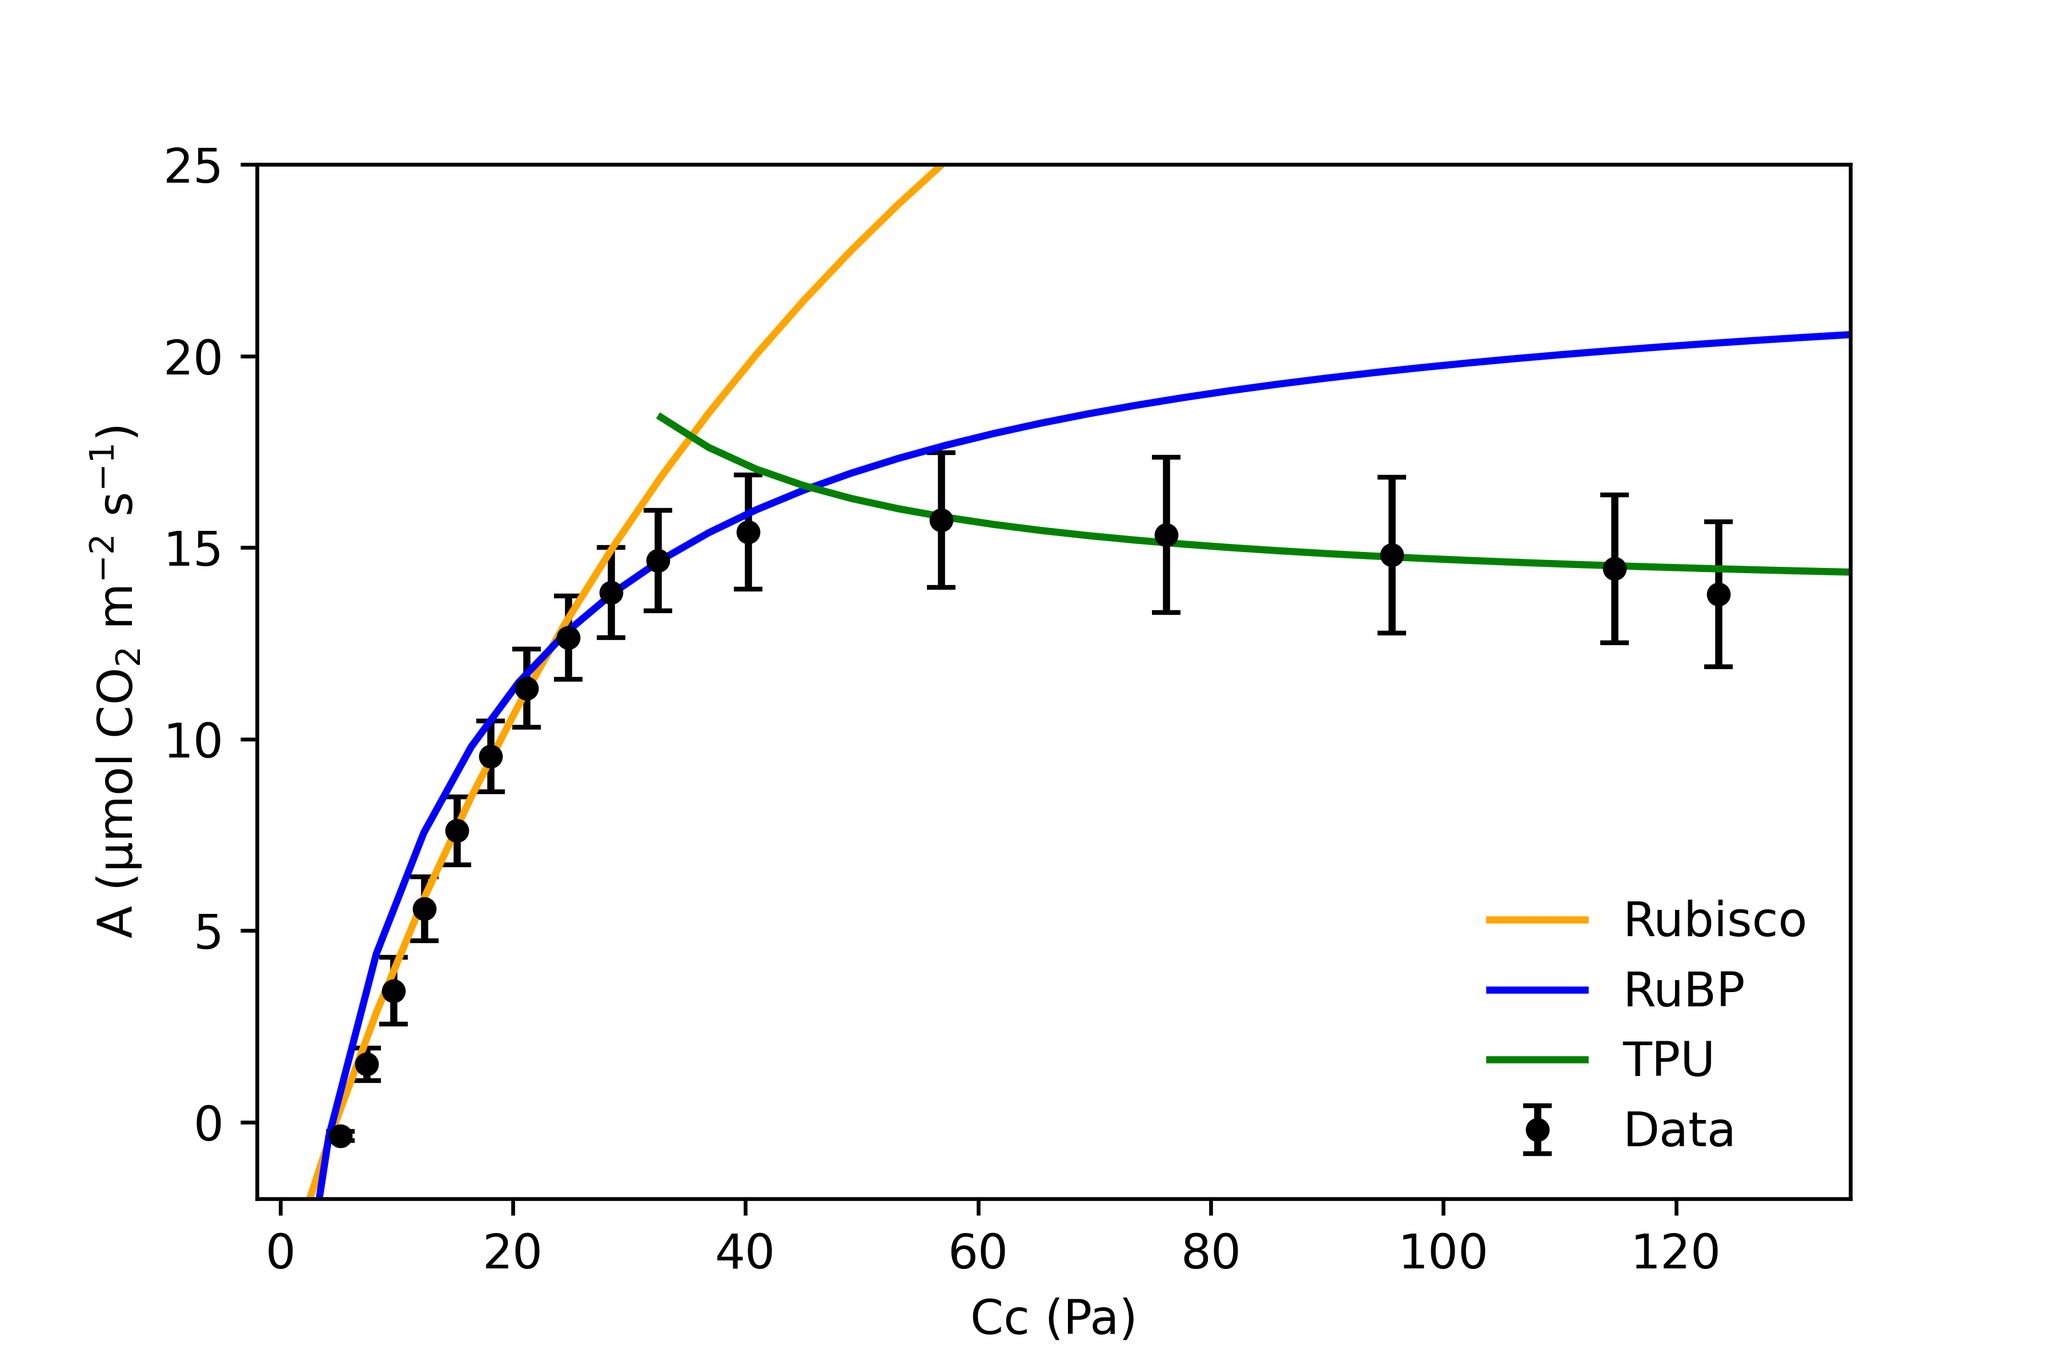
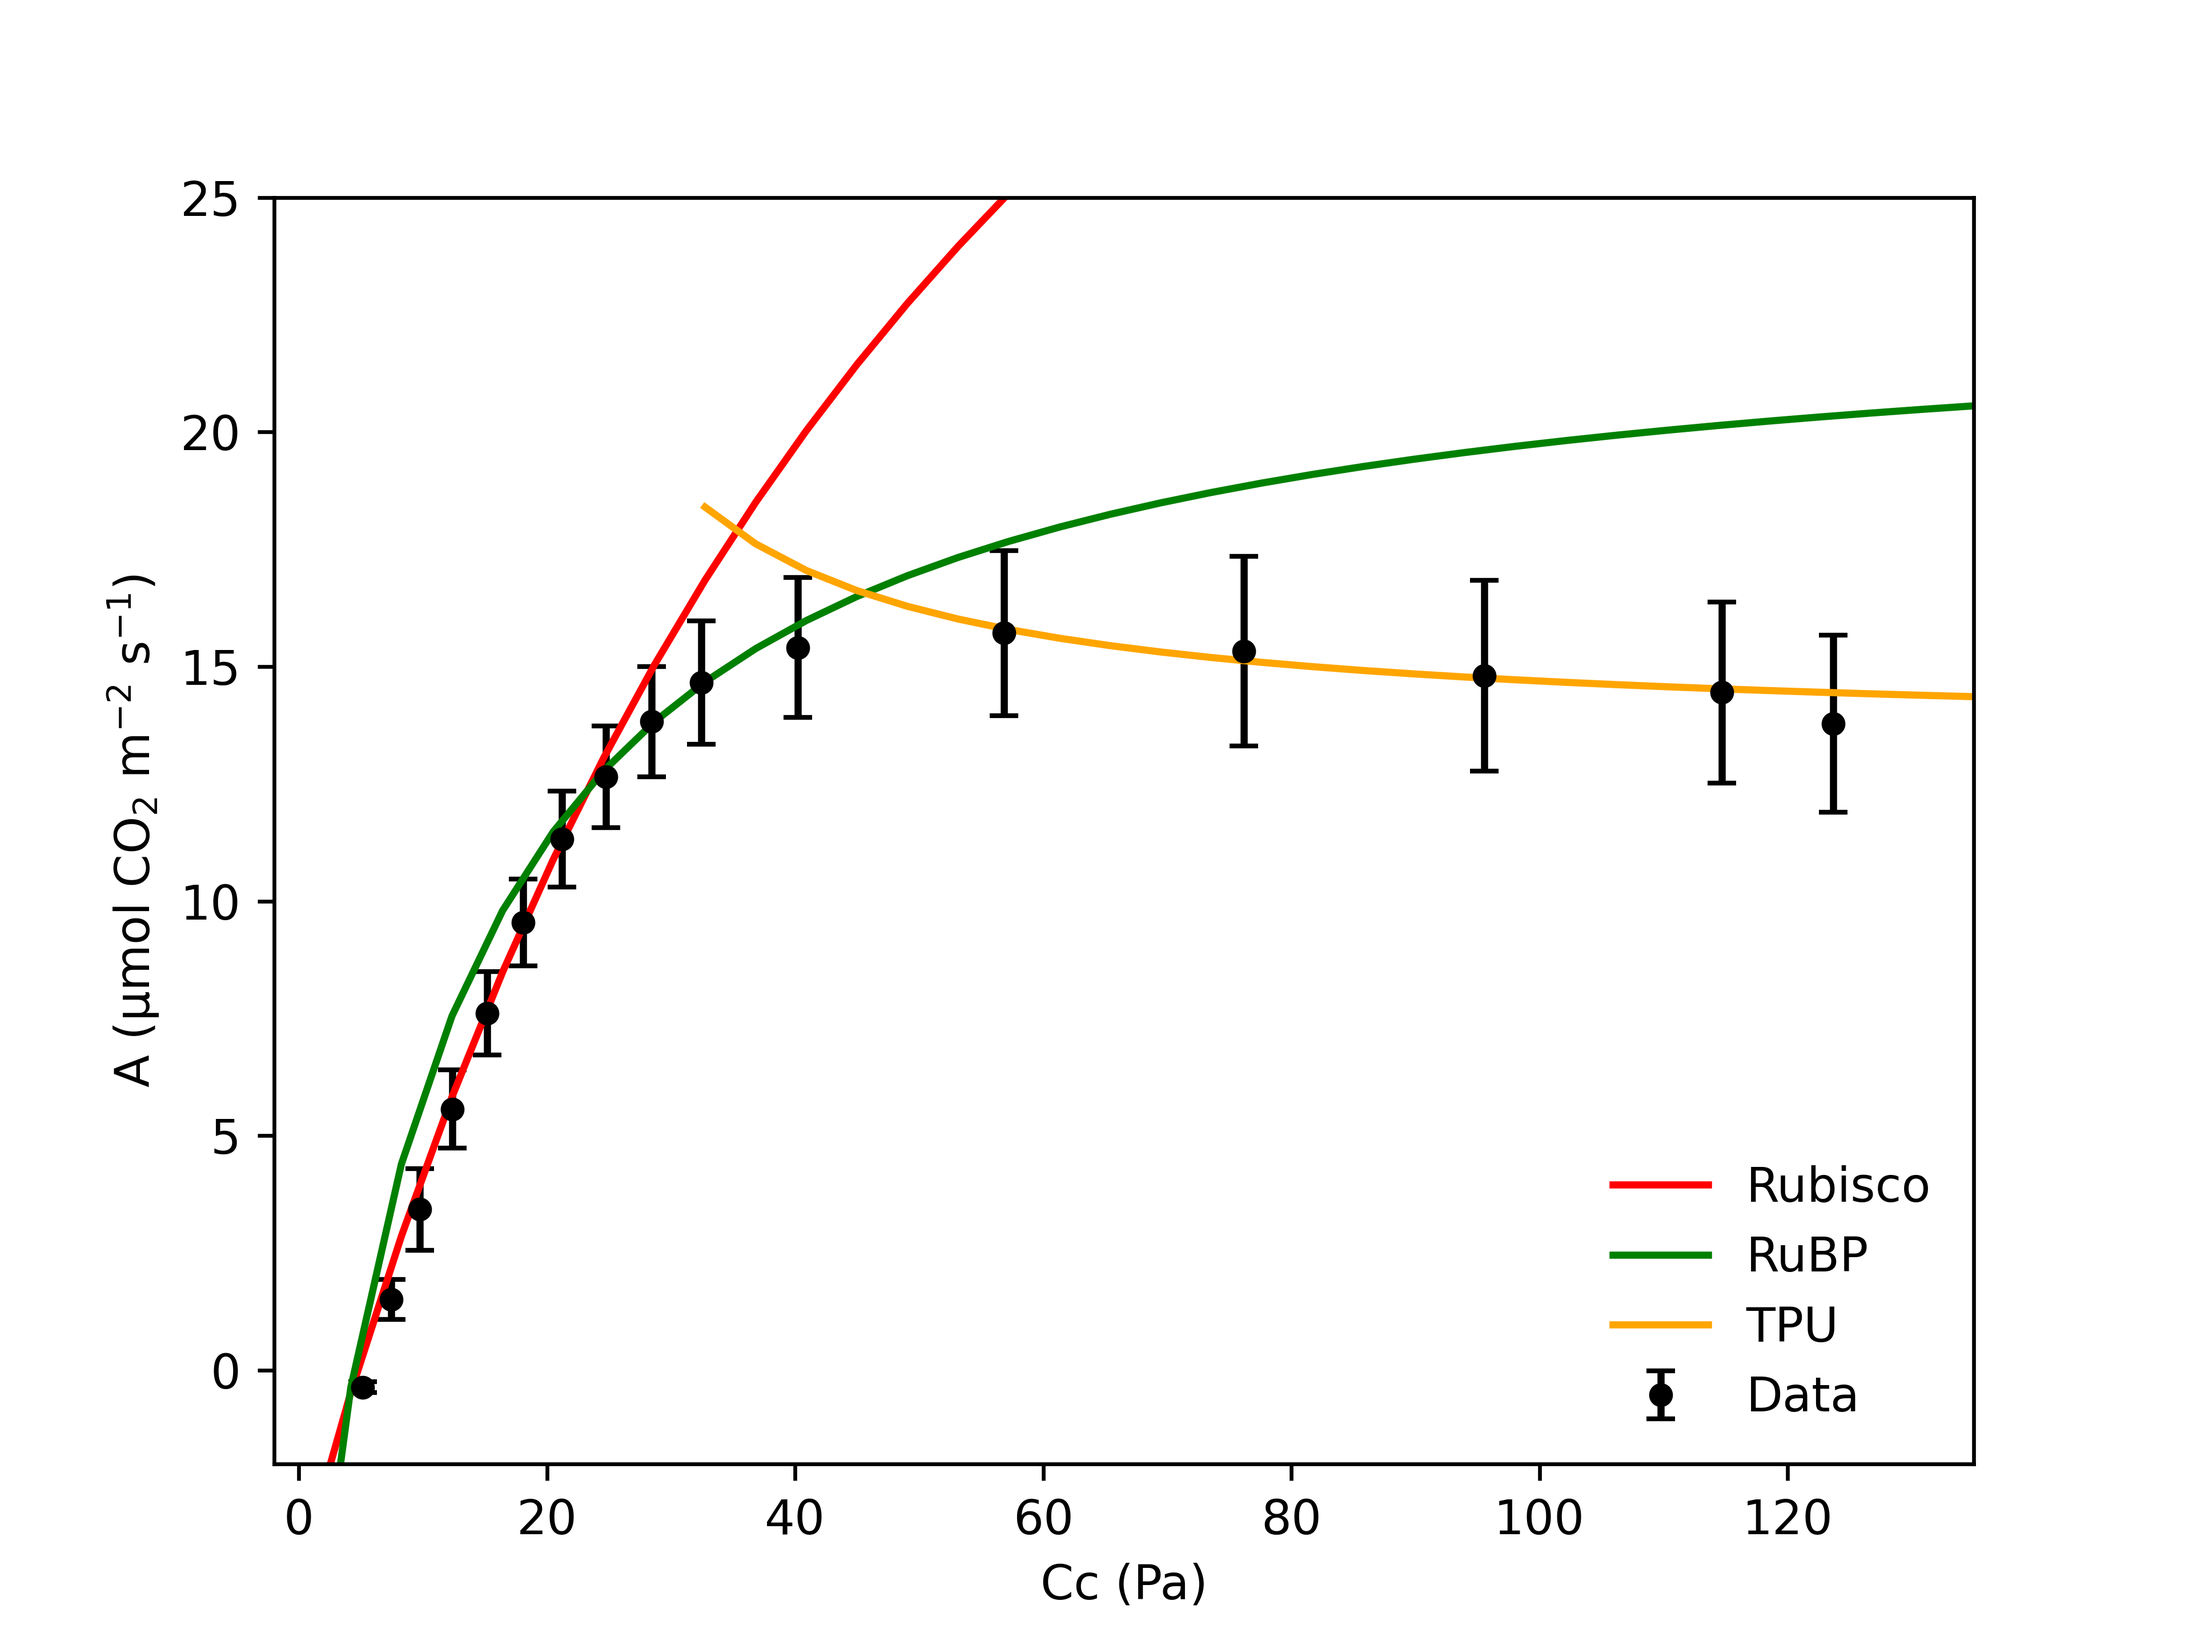
Changed color scheme: red for rubisco limited, green for RuBP regeneration, and orange for TPU

diff --git a/modeling_photosynthesis_to_CO2_ACi.py b/modeling_photosynthesis_to_CO2_ACi.py
@@ -226,11 +226,11 @@ class Model:
         if plot:
             f = plt.figure()  # A plot is generated
             plt.scatter(df['Cc'], df['A'], label='data', color='black')  # plot the raw data
-            plt.plot(df['Cc'], self.calc_Ac(df, Vcmax, aG), color='orange', label='rubisco',
+            plt.plot(df['Cc'], self.calc_Ac(df, Vcmax, aG), color='red', label='rubisco',
                      linestyle=':')  # plot the fitted Ac curve
-            plt.plot(df['Cc'], self.calc_Aj(df, J, aG, aS), color='blue', label='RuBP',
+            plt.plot(df['Cc'], self.calc_Aj(df, J, aG, aS), color='green', label='RuBP',
                      linestyle=':')  # plot the fitted Aj curve
-            plt.plot(df['Cc'], self.calc_Ap(df, Tp, aG, aS), color='green', label="TPU",
+            plt.plot(df['Cc'], self.calc_Ap(df, Tp, aG, aS), color='orange', label="TPU",
                      linestyle=':')  # plot the fitted Ap curve
             plt.plot(df['Cc'], self.calc_A(df, Vcmax, J, Tp, aG, aS), label='fit curve',
                      color='gray')  # plot the fitted A curve
@@ -328,11 +328,11 @@ def main():
     plt.figure()  # A plot is generated
     plt.errorbar(result_21O['Cc_mean'], result_21O['A_mean'], yerr=result_21O['A_std'],
                  fmt='o', markersize=4, capsize=3, color="black", label="Data");
-    plt.plot(df_sim_data['Cc'], model_21O.calc_Ac(df_sim_data, Vcmax, aG), color='orange',
+    plt.plot(df_sim_data['Cc'], model_21O.calc_Ac(df_sim_data, Vcmax, aG), color='red',
              label='Rubisco')  # plot the fitted Ac curve
-    plt.plot(df_sim_data['Cc'], model_21O.calc_Aj(df_sim_data, J, aG, aS), color='blue',
+    plt.plot(df_sim_data['Cc'], model_21O.calc_Aj(df_sim_data, J, aG, aS), color='green',
              label='RuBP')  # plot the fitted Aj curve
-    plt.plot(df_sim_data['Cc'], model_21O.calc_Ap(df_sim_data, Tp, aG, aS), color='green',
+    plt.plot(df_sim_data['Cc'], model_21O.calc_Ap(df_sim_data, Tp, aG, aS), color='orange',
              label="TPU")  # plot the fitted Ap curve
     plt.xlabel('Cc (Pa)')  # Labels the x-axis
     plt.ylabel('A (\u03BCmol $\mathregular{CO_2 \ m^{-2} \ s^{-1})}$')  # Labels the y-axis
